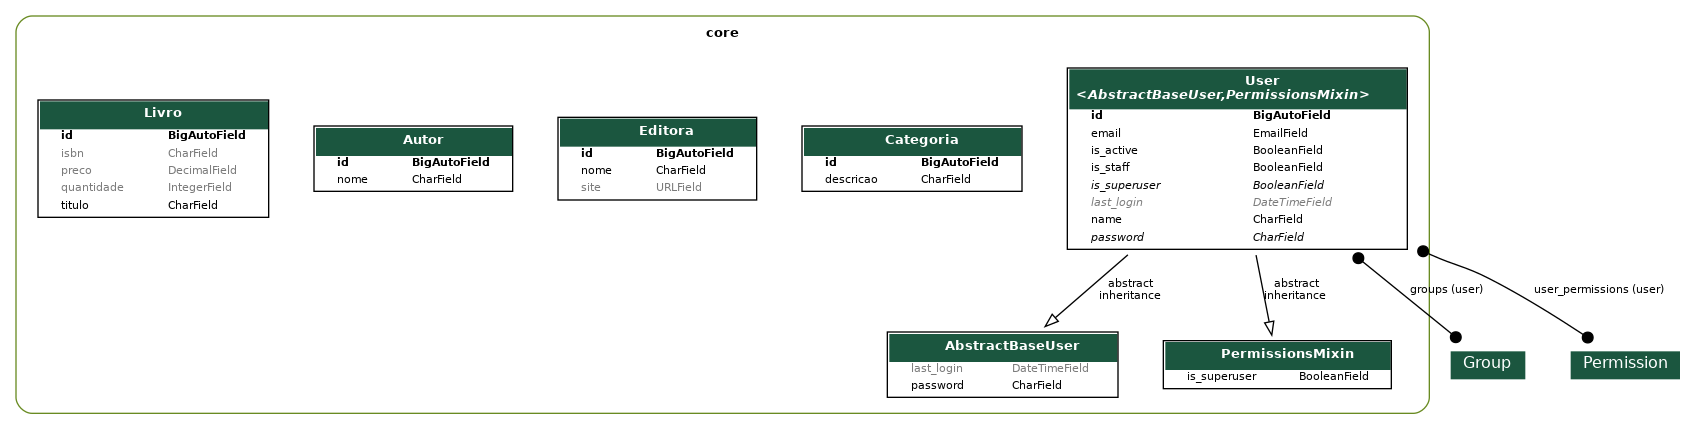
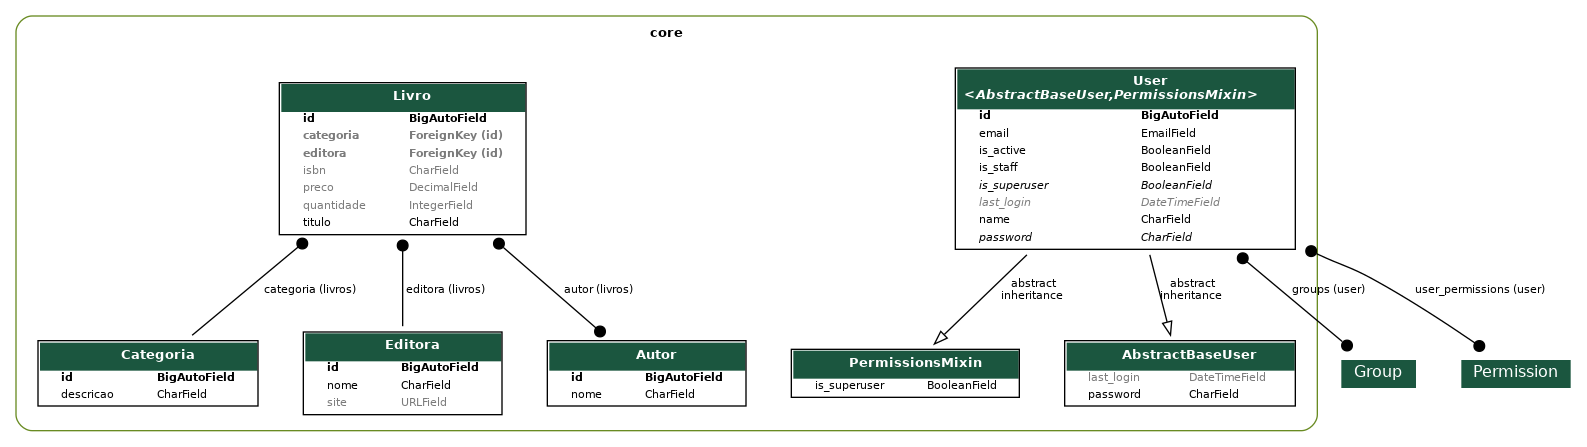
feat: Adicionar viewset e serializer para o model Livro

diff --git a/core/migrations/0009_livro_autor_livro_categoria_livro_editora.py b/core/migrations/0009_livro_autor_livro_categoria_livro_editora.py
@@ -1,0 +1,47 @@
+# Generated by Django 5.0.2 on 2024-08-02 11:35
+
+import django.db.models.deletion
+from django.db import migrations, models
+
+
+class Migration(migrations.Migration):
+
+    dependencies = [
+        ("core", "0008_livro"),
+    ]
+
+    operations = [
+        migrations.AddField(
+            model_name="livro",
+            name="autor",
+            field=models.ForeignKey(
+                blank=True,
+                null=True,
+                on_delete=django.db.models.deletion.PROTECT,
+                related_name="livros",
+                to="core.autor",
+            ),
+        ),
+        migrations.AddField(
+            model_name="livro",
+            name="categoria",
+            field=models.ForeignKey(
+                blank=True,
+                null=True,
+                on_delete=django.db.models.deletion.PROTECT,
+                related_name="livros",
+                to="core.categoria",
+            ),
+        ),
+        migrations.AddField(
+            model_name="livro",
+            name="editora",
+            field=models.ForeignKey(
+                blank=True,
+                null=True,
+                on_delete=django.db.models.deletion.PROTECT,
+                related_name="livros",
+                to="core.editora",
+            ),
+        ),
+    ]

diff --git a/core/migrations/0010_livro_coautor_alter_livro_autor.py b/core/migrations/0010_livro_coautor_alter_livro_autor.py
@@ -1,0 +1,36 @@
+# Generated by Django 5.0.2 on 2024-08-02 11:43
+
+import django.db.models.deletion
+from django.db import migrations, models
+
+
+class Migration(migrations.Migration):
+
+    dependencies = [
+        ("core", "0009_livro_autor_livro_categoria_livro_editora"),
+    ]
+
+    operations = [
+        migrations.AddField(
+            model_name="livro",
+            name="coautor",
+            field=models.ForeignKey(
+                blank=True,
+                null=True,
+                on_delete=django.db.models.deletion.PROTECT,
+                related_name="livrosCoautor",
+                to="core.autor",
+            ),
+        ),
+        migrations.AlterField(
+            model_name="livro",
+            name="autor",
+            field=models.ForeignKey(
+                blank=True,
+                null=True,
+                on_delete=django.db.models.deletion.PROTECT,
+                related_name="livrosAutor",
+                to="core.autor",
+            ),
+        ),
+    ]

diff --git a/core/models/livro.py b/core/models/livro.py
@@ -2,7 +2,7 @@ from django.db import models
 
 from .categoria import Categoria
 from .editora import Editora
-
+from .autor import Autor
 
 class Livro(models.Model):
     titulo = models.CharField(max_length=225)
@@ -10,7 +10,9 @@ class Livro(models.Model):
     quantidade = models.IntegerField(default=0, blank=True, null=True)
     preco = models.DecimalField(max_digits=7, decimal_places=2, default=0, blank=True, null=True)
     categoria = models.ForeignKey(Categoria, on_delete=models.PROTECT, related_name="livros", blank=True, null=True)
-    editora = models.ForeignKey(Editora, on_delete=models.PROTECT, related_name="editora", blank=True, null=True)
+    editora = models.ForeignKey(Editora, on_delete=models.PROTECT, related_name="livros", blank=True, null=True)
+    autor = models.ManyToManyField(Autor, related_name="livros", blank=True)
+   
 
     def __str__(self):
         return f"({self.id} {self.titulo} ({self.preco}))"

diff --git a/app/urls.py b/app/urls.py
@@ -9,15 +9,16 @@ from drf_spectacular.views import (
 from rest_framework.routers import DefaultRouter
 from rest_framework_simplejwt.views import TokenObtainPairView, TokenRefreshView
 
-from core.views import UserViewSet, CategoriaViewSet, EditoraViewSet, AutorViewSet
+from core.views import UserViewSet, LivroViewSet, CategoriaViewSet, EditoraViewSet, AutorViewSet
 
 router = DefaultRouter()
 
 router.register(r"users", UserViewSet, basename="users")
+router.register(r"autores", AutorViewSet, basename="autores")
 router.register(r"categorias", CategoriaViewSet, basename="users")
 router.register(r"editoras", EditoraViewSet, basename="editoras")
+router.register(r"livros", LivroViewSet, basename="livros")
 router.register(r"users", UserViewSet, basename="users")
-router.register(r"autores", AutorViewSet, basename="autores")
 
 
 urlpatterns = [

diff --git a/core/migrations/0011_remove_livro_coautor_remove_livro_autor_livro_autor.py b/core/migrations/0011_remove_livro_coautor_remove_livro_autor_livro_autor.py
@@ -1,0 +1,26 @@
+# Generated by Django 5.0.2 on 2024-08-02 11:49
+
+from django.db import migrations, models
+
+
+class Migration(migrations.Migration):
+
+    dependencies = [
+        ("core", "0010_livro_coautor_alter_livro_autor"),
+    ]
+
+    operations = [
+        migrations.RemoveField(
+            model_name="livro",
+            name="coautor",
+        ),
+        migrations.RemoveField(
+            model_name="livro",
+            name="autor",
+        ),
+        migrations.AddField(
+            model_name="livro",
+            name="autor",
+            field=models.ManyToManyField(blank=True, null=True, related_name="livros", to="core.autor"),
+        ),
+    ]

diff --git a/core/migrations/0012_alter_livro_autor.py b/core/migrations/0012_alter_livro_autor.py
@@ -1,0 +1,18 @@
+# Generated by Django 5.0.2 on 2024-08-02 11:50
+
+from django.db import migrations, models
+
+
+class Migration(migrations.Migration):
+
+    dependencies = [
+        ("core", "0011_remove_livro_coautor_remove_livro_autor_livro_autor"),
+    ]
+
+    operations = [
+        migrations.AlterField(
+            model_name="livro",
+            name="autor",
+            field=models.ManyToManyField(blank=True, related_name="livros", to="core.autor"),
+        ),
+    ]

diff --git a/core/views/livro.py b/core/views/livro.py
@@ -1,0 +1,8 @@
+from rest_framework.viewsets import ModelViewSet
+
+from core.models import Livro
+from core.serializers import LivroSerializer
+
+class LivroViewSet(ModelViewSet):
+    queryset = Livro.objects.all()
+    serializer_class = LivroSerializer

diff --git a/core/serializers/livro.py b/core/serializers/livro.py
@@ -1,0 +1,8 @@
+from rest_framework.serializers import ModelSerializer
+
+from core.models import Livro
+
+class LivroSerializer(ModelSerializer):
+    class Meta:
+        model = Livro
+        fields = '__all__'

diff --git a/core/serializers/__init__.py b/core/serializers/__init__.py
@@ -2,3 +2,4 @@ from .user import UserSerializer
 from .categoria import CategoriaSerializer
 from .editora import EditoraSerializer
 from .autor import AutorSerializer
+from .livro import LivroSerializer

diff --git a/core/views/__init__.py b/core/views/__init__.py
@@ -2,3 +2,4 @@ from .user import UserViewSet
 from .categoria import CategoriaViewSet
 from .editora import EditoraViewSet
 from .autor import AutorViewSet
+from .livro import LivroViewSet
